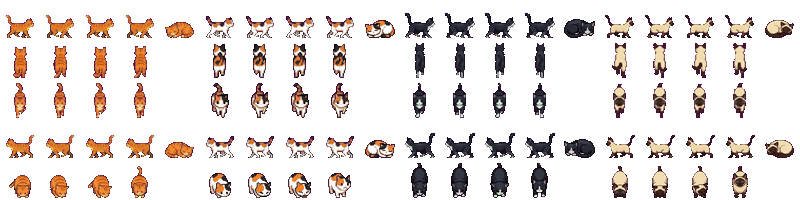
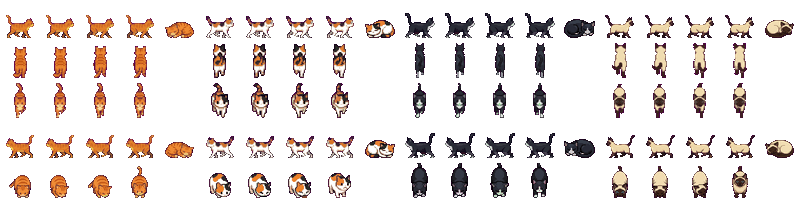
Walk in four steps: the shiba's legs now pass under its body
The side walk gets the in-between pose of a real walk (two paws planted, two
lifted) between the two spread poses: spread, passing, spread, passing at 6 fps,
the same pace as before. The other breeds and the up/down walks keep their two
poses, laid out 1-1-2-2 so they look exactly as they did until they are redone.

diff --git a/src/scenes/petSheet.ts b/src/scenes/petSheet.ts
@@ -1,15 +1,16 @@
 /**
  * Layout of the dog and cat sheets (public/assets/ranch/dog.png, cat.png): four breeds side by
  * side, BREED_COLS columns each. Rows: walk right (+ asleep), walk up, walk down, walk left
- * (+ asleep), then eat (facing the viewer). A walk is two poses, looped. From the side, the legs of
- * one side are spread (hind back, front forward) while the other side's are gathered, then the same
- * body with the sides swapped: each side opens and closes in turn. Columns 2-3 repeat them.
+ * (+ asleep), then eat (facing the viewer). A walk is four steps, looped: one side's legs spread
+ * (hind back, front forward) while the other side's are gathered, the legs passing under the body
+ * (two planted, two lifted), the same with the sides swapped, passing again. A breed whose walk is
+ * still two poses has each pose twice (columns 0, 0, 1, 1), so it keeps its old pace.
  */
 export const BREED_COLS = 5;
 export const BREEDS = 4;
 export const SHEET_COLS = BREED_COLS * BREEDS;
-export const WALK_FRAMES = 2;
-export const WALK_FPS = 3;
+export const WALK_FRAMES = 4;
+export const WALK_FPS = 6;
 /** Lying-down frames: the last column of the right and left walk rows. */
 export const SLEEP_COL = 4;
 

diff --git a/tests/scenes/petSheet.test.ts b/tests/scenes/petSheet.test.ts
@@ -11,9 +11,9 @@ describe('pet sheet layout', () => {
     expect(petFrame(3, 4, 4)).toBe(4 * 20 + 15 + 4);
   });
 
-  it('a walk is two poses (one side spread, then the other), three a second', () => {
-    expect(walkCycle(1, 0)).toEqual([5, 6]);
-    expect(walkCycle(2, 3)).toEqual([70, 71]);
-    expect(WALK_FPS).toBe(3);
+  it('a walk is four steps (one side spread, legs passing, the other side spread, passing), six a second', () => {
+    expect(walkCycle(1, 0)).toEqual([5, 6, 7, 8]);
+    expect(walkCycle(2, 3)).toEqual([70, 71, 72, 73]);
+    expect(WALK_FPS).toBe(6);
   });
 });
